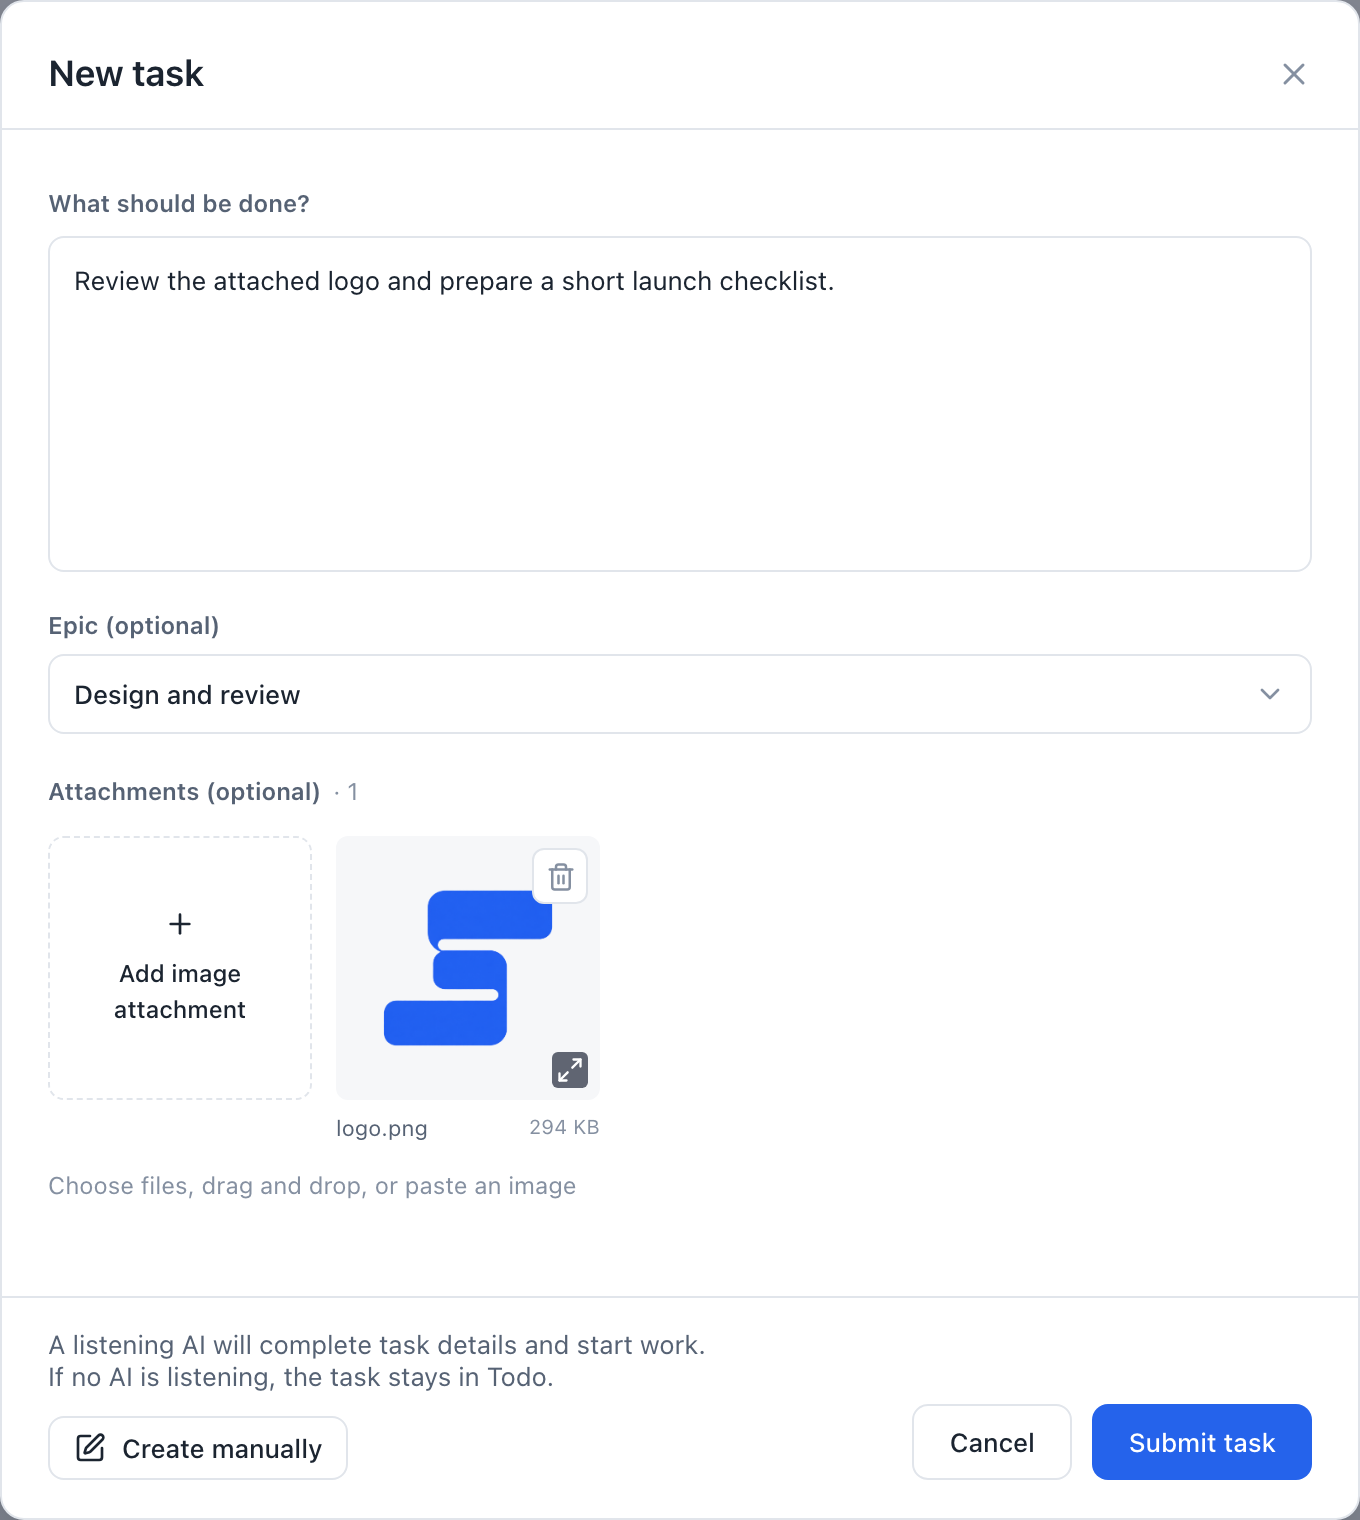
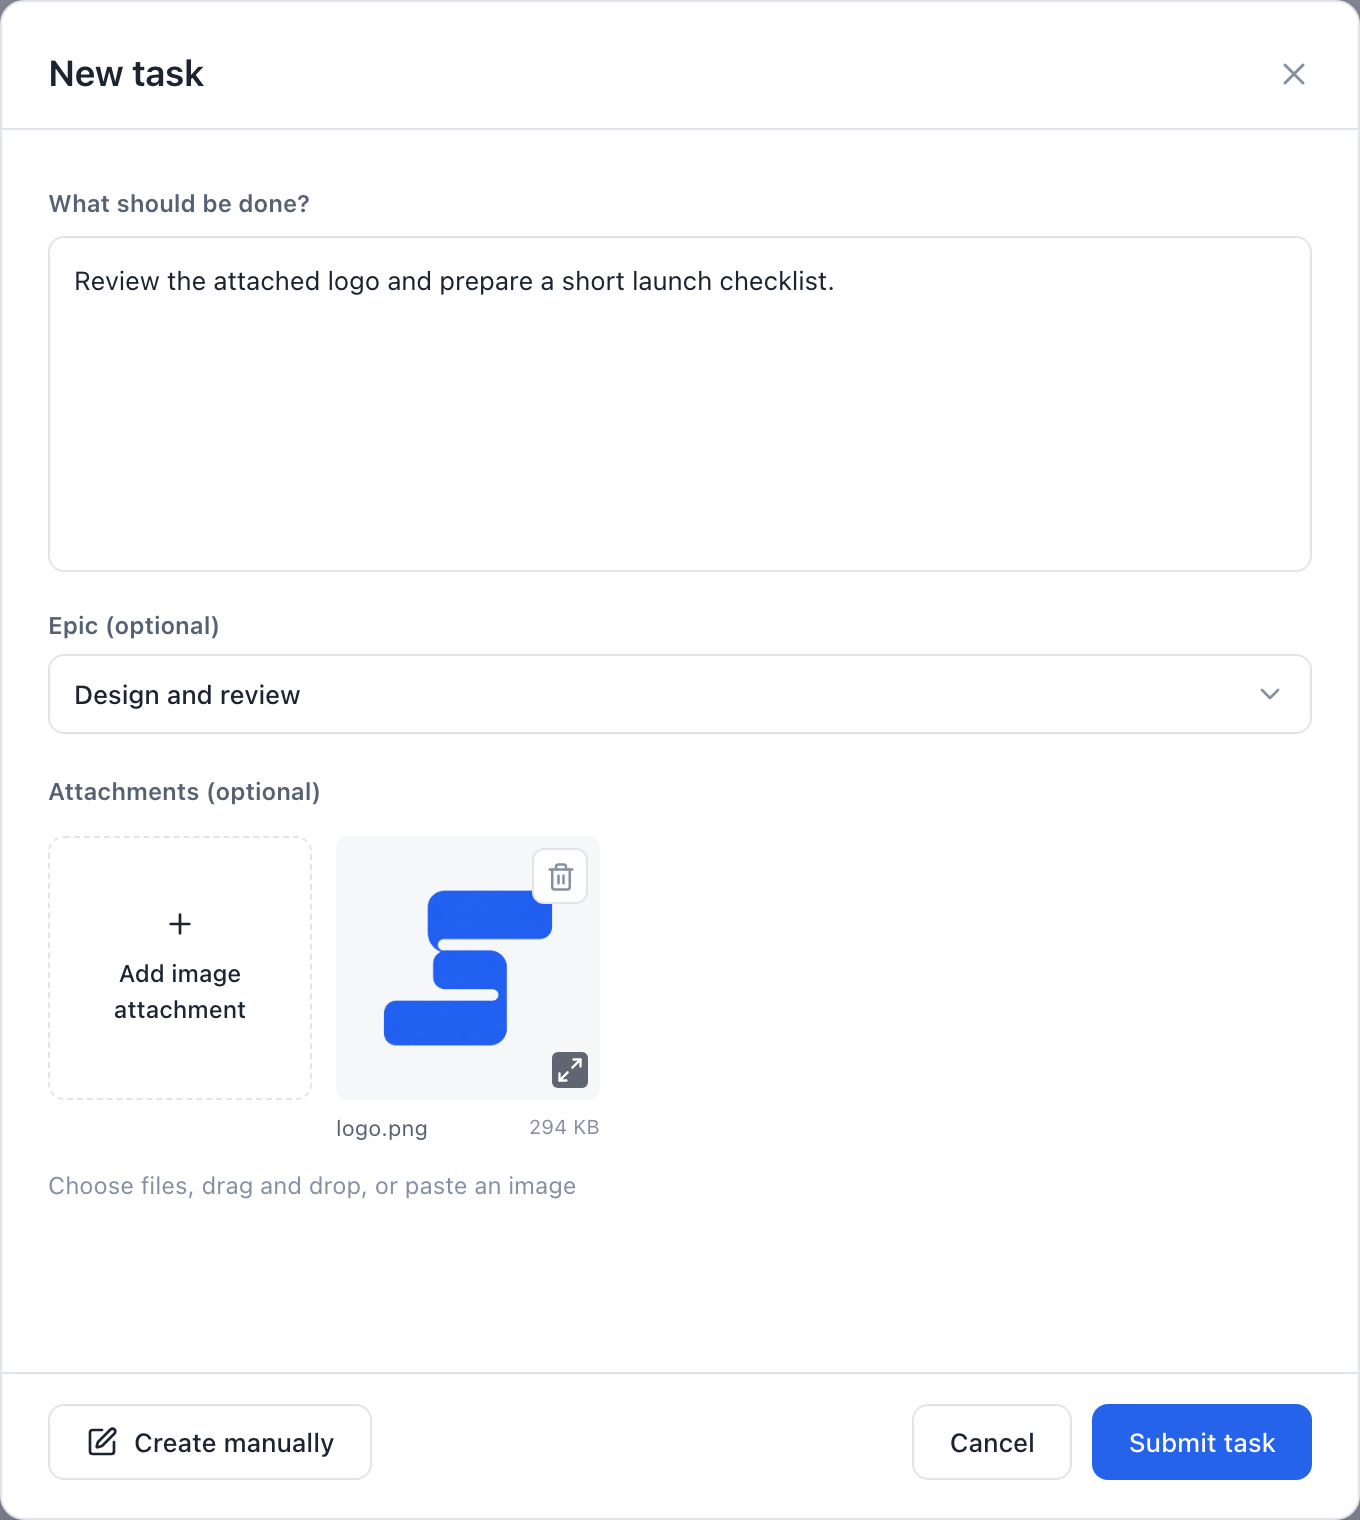
fix: simplify request footer and attachment heading

Changed region(s): [[0.0309, 0.8658, 0.4941, 0.9586]]

diff --git a/e2e/tests/request-attachments.spec.ts b/e2e/tests/request-attachments.spec.ts
@@ -30,6 +30,28 @@ test('the request text field leaves room for its complete focus ring', async ({ 
   await dialog.screenshot({ path: testInfo.outputPath('request-focused-border.png') });
 });
 
+test('request actions share a button height and keep the footer concise', async ({ page }) => {
+  for (const width of [1280, 390]) {
+    await page.setViewportSize({ width, height: 844 });
+    await page.getByRole('button', { name: 'Add task' }).click();
+    const dialog = page.getByRole('dialog', { name: 'New task' });
+    await dialog.evaluate((element) => Promise.all(element.getAnimations().map((animation) => animation.finished)));
+    const sizes = await dialog.locator('.modal__footer button').evaluateAll((buttons) => buttons.map((button) => {
+      const box = button.getBoundingClientRect();
+      return { height: box.height, width: box.width };
+    }));
+    expect(sizes).toHaveLength(3);
+    for (const size of sizes) expect(size.height).toBeCloseTo(sizes[0].height, 1);
+    if (width === 390) {
+      for (const size of sizes) expect(size.width).toBeCloseTo(sizes[0].width, 1);
+    }
+    await expect(dialog.locator('.request-dialog__note')).toHaveCount(0);
+    await expect(dialog.getByRole('button', { name: 'Create manually' })).toBeInViewport();
+    await dialog.getByRole('button', { name: 'Cancel', exact: true }).click();
+    await expect(dialog).toHaveCount(0);
+  }
+});
+
 test('request attachment headings use the same typography as the other field labels', async ({ page }) => {
   await page.getByRole('button', { name: 'Add task' }).click();
   const dialog = page.getByRole('dialog', { name: 'New task' });
@@ -150,7 +172,7 @@ test('request dialog attachments stay visible and operable on desktop, dark, and
   await page.locator('.lightbox__close').click();
   await expect(dialog.getByRole('button', { name: 'Remove shared-notes.png' })).toBeVisible();
   await dialog.getByRole('button', { name: 'Remove shared-notes.png' }).click();
-  await expect(dialog.getByText('· 0', { exact: true })).toBeVisible();
+  await expect(dialog.locator('.editor-attachments__tile')).toHaveCount(0);
 
   await page.evaluate(() =>
     localStorage.setItem('agboard.theme', JSON.stringify({ mode: 'dark', accent: 'blue' })),

diff --git a/web/test/RequestDialog.test.tsx b/web/test/RequestDialog.test.tsx
@@ -44,12 +44,7 @@ describe('simple request dialog', () => {
     const footerCopy = alert.closest('.modal__footer-copy');
     expect(footerCopy).not.toBeNull();
     if (footerCopy === null) throw new Error('expected the error inside the footer copy');
-    const footerChildren = [...footerCopy.children];
-    const noteIndex = footerChildren.findIndex((child) =>
-      child.classList.contains('request-dialog__note'),
-    );
-    expect(noteIndex).toBeGreaterThanOrEqual(0);
-    expect(footerChildren.indexOf(alert)).toBeLessThan(noteIndex);
+    expect(footerCopy.contains(screen.getByRole('button', { name: 'Create manually' }))).toBe(true);
     expect((textarea as HTMLTextAreaElement).value).toBe('Keep this request');
   });
 
@@ -69,7 +64,6 @@ describe('simple request dialog', () => {
       />,
     );
     expect(screen.getByText('Attachments (optional)')).toBeTruthy();
-    expect(screen.getByText('· 0')).toBeTruthy();
     const user = userEvent.setup();
     const textarea = screen.getByRole('textbox', { name: 'What should be done?' });
     fireEvent.change(textarea, {

diff --git a/web/src/i18n/locales/ja/edit.ts b/web/src/i18n/locales/ja/edit.ts
@@ -7,8 +7,6 @@ export const editJa = {
     epicLabel: 'エピック（任意）',
     epicLoadError: 'エピックを読み込めませんでした。時間をおいて再度お試しください。',
     noEpic: 'エピックなし',
-    footerNote:
-      '起票済みのAIがタスク詳細を補完して作業を始めます。\n起票済みのAIがいない場合、タスクはTodoに残ります。',
     createManually: '手動で作成',
     required: '依頼内容を入力してください。',
     tooLong: '依頼全体を{{max}}文字以内にしてください。',
@@ -65,7 +63,6 @@ export const editJa = {
     discardAndMove: '破棄して移動',
     attachments: '添付画像',
     attachmentsOptional: '添付画像（任意）',
-    attachmentsOptionalCount: '・{{count}}',
     attachmentRefusedTitle: '画像を追加できません',
     attachmentTooLarge: '{{name}} は 10 MB を超えています。小さい画像を選んでください。',
     attachmentFormat:

diff --git a/web/src/i18n/locales/en/edit.ts b/web/src/i18n/locales/en/edit.ts
@@ -7,8 +7,6 @@ export const editEn = {
     epicLabel: 'Epic (optional)',
     epicLoadError: 'Could not load the epics. Try again later.',
     noEpic: 'No epic',
-    footerNote:
-      'A listening AI will complete task details and start work.\nIf no AI is listening, the task stays in Todo.',
     createManually: 'Create manually',
     required: 'Enter what should be done.',
     tooLong: 'Keep the complete request within {{max}} characters.',
@@ -65,7 +63,6 @@ export const editEn = {
     discardAndMove: 'Discard and move',
     attachments: 'Attachments',
     attachmentsOptional: 'Attachments (optional)',
-    attachmentsOptionalCount: '· {{count}}',
     attachmentRefusedTitle: 'Cannot add the image',
     attachmentTooLarge: '{{name}} is larger than 10 MB. Choose a smaller image.',
     attachmentFormat: '{{name}} is not a supported format. Choose a PNG, JPEG, WebP or GIF image.',

diff --git a/web/src/components/editor/AttachmentPanel.tsx b/web/src/components/editor/AttachmentPanel.tsx
@@ -130,11 +130,9 @@ export function AttachmentPanel({
               {t('editor.attachments')}
             </span>
           )}
-          <span className="editor-attachments__count">
-            {optionalHeader
-              ? t('editor.attachmentsOptionalCount', { count: attachments.length })
-              : attachments.length}
-          </span>
+          {!optionalHeader && (
+            <span className="editor-attachments__count">{attachments.length}</span>
+          )}
           {onClose && (
             <Button
               type="button"

diff --git a/web/src/components/RequestDialog.tsx b/web/src/components/RequestDialog.tsx
@@ -102,7 +102,6 @@ export function RequestDialog({
       scrollBody
       className={`request-dialog${attachmentsState.attachments.length > 0 ? ' has-attachments' : ''}`}
       errorInFooter
-      footerNote={<p className="modal__card request-dialog__note">{t('simpleTask.footerNote')}</p>}
       submitDisabled={!valid}
       secondaryAction={{
         label: t('simpleTask.createManually'),

diff --git a/web/src/styles/modal.css b/web/src/styles/modal.css
@@ -466,10 +466,6 @@
   gap: 16px;
 }
 
-.request-dialog__note {
-  white-space: pre-line;
-}
-
 .request-dialog .modal__actions {
   flex: none;
   align-items: flex-end;
@@ -595,6 +591,10 @@
 
   .request-dialog .modal__actions button {
     width: 100%;
+  }
+
+  .request-dialog .modal__secondary-action {
+    align-self: stretch;
   }
 }
 

diff --git a/web/src/components/DialogFrame.tsx b/web/src/components/DialogFrame.tsx
@@ -160,7 +160,6 @@ export function DialogFrame({
                   <Button
                     type="button"
                     variant="outline"
-                    size="sm"
                     className="modal__secondary-action"
                     disabled={saving}
                     onClick={() => requestDiscard('secondary')}
